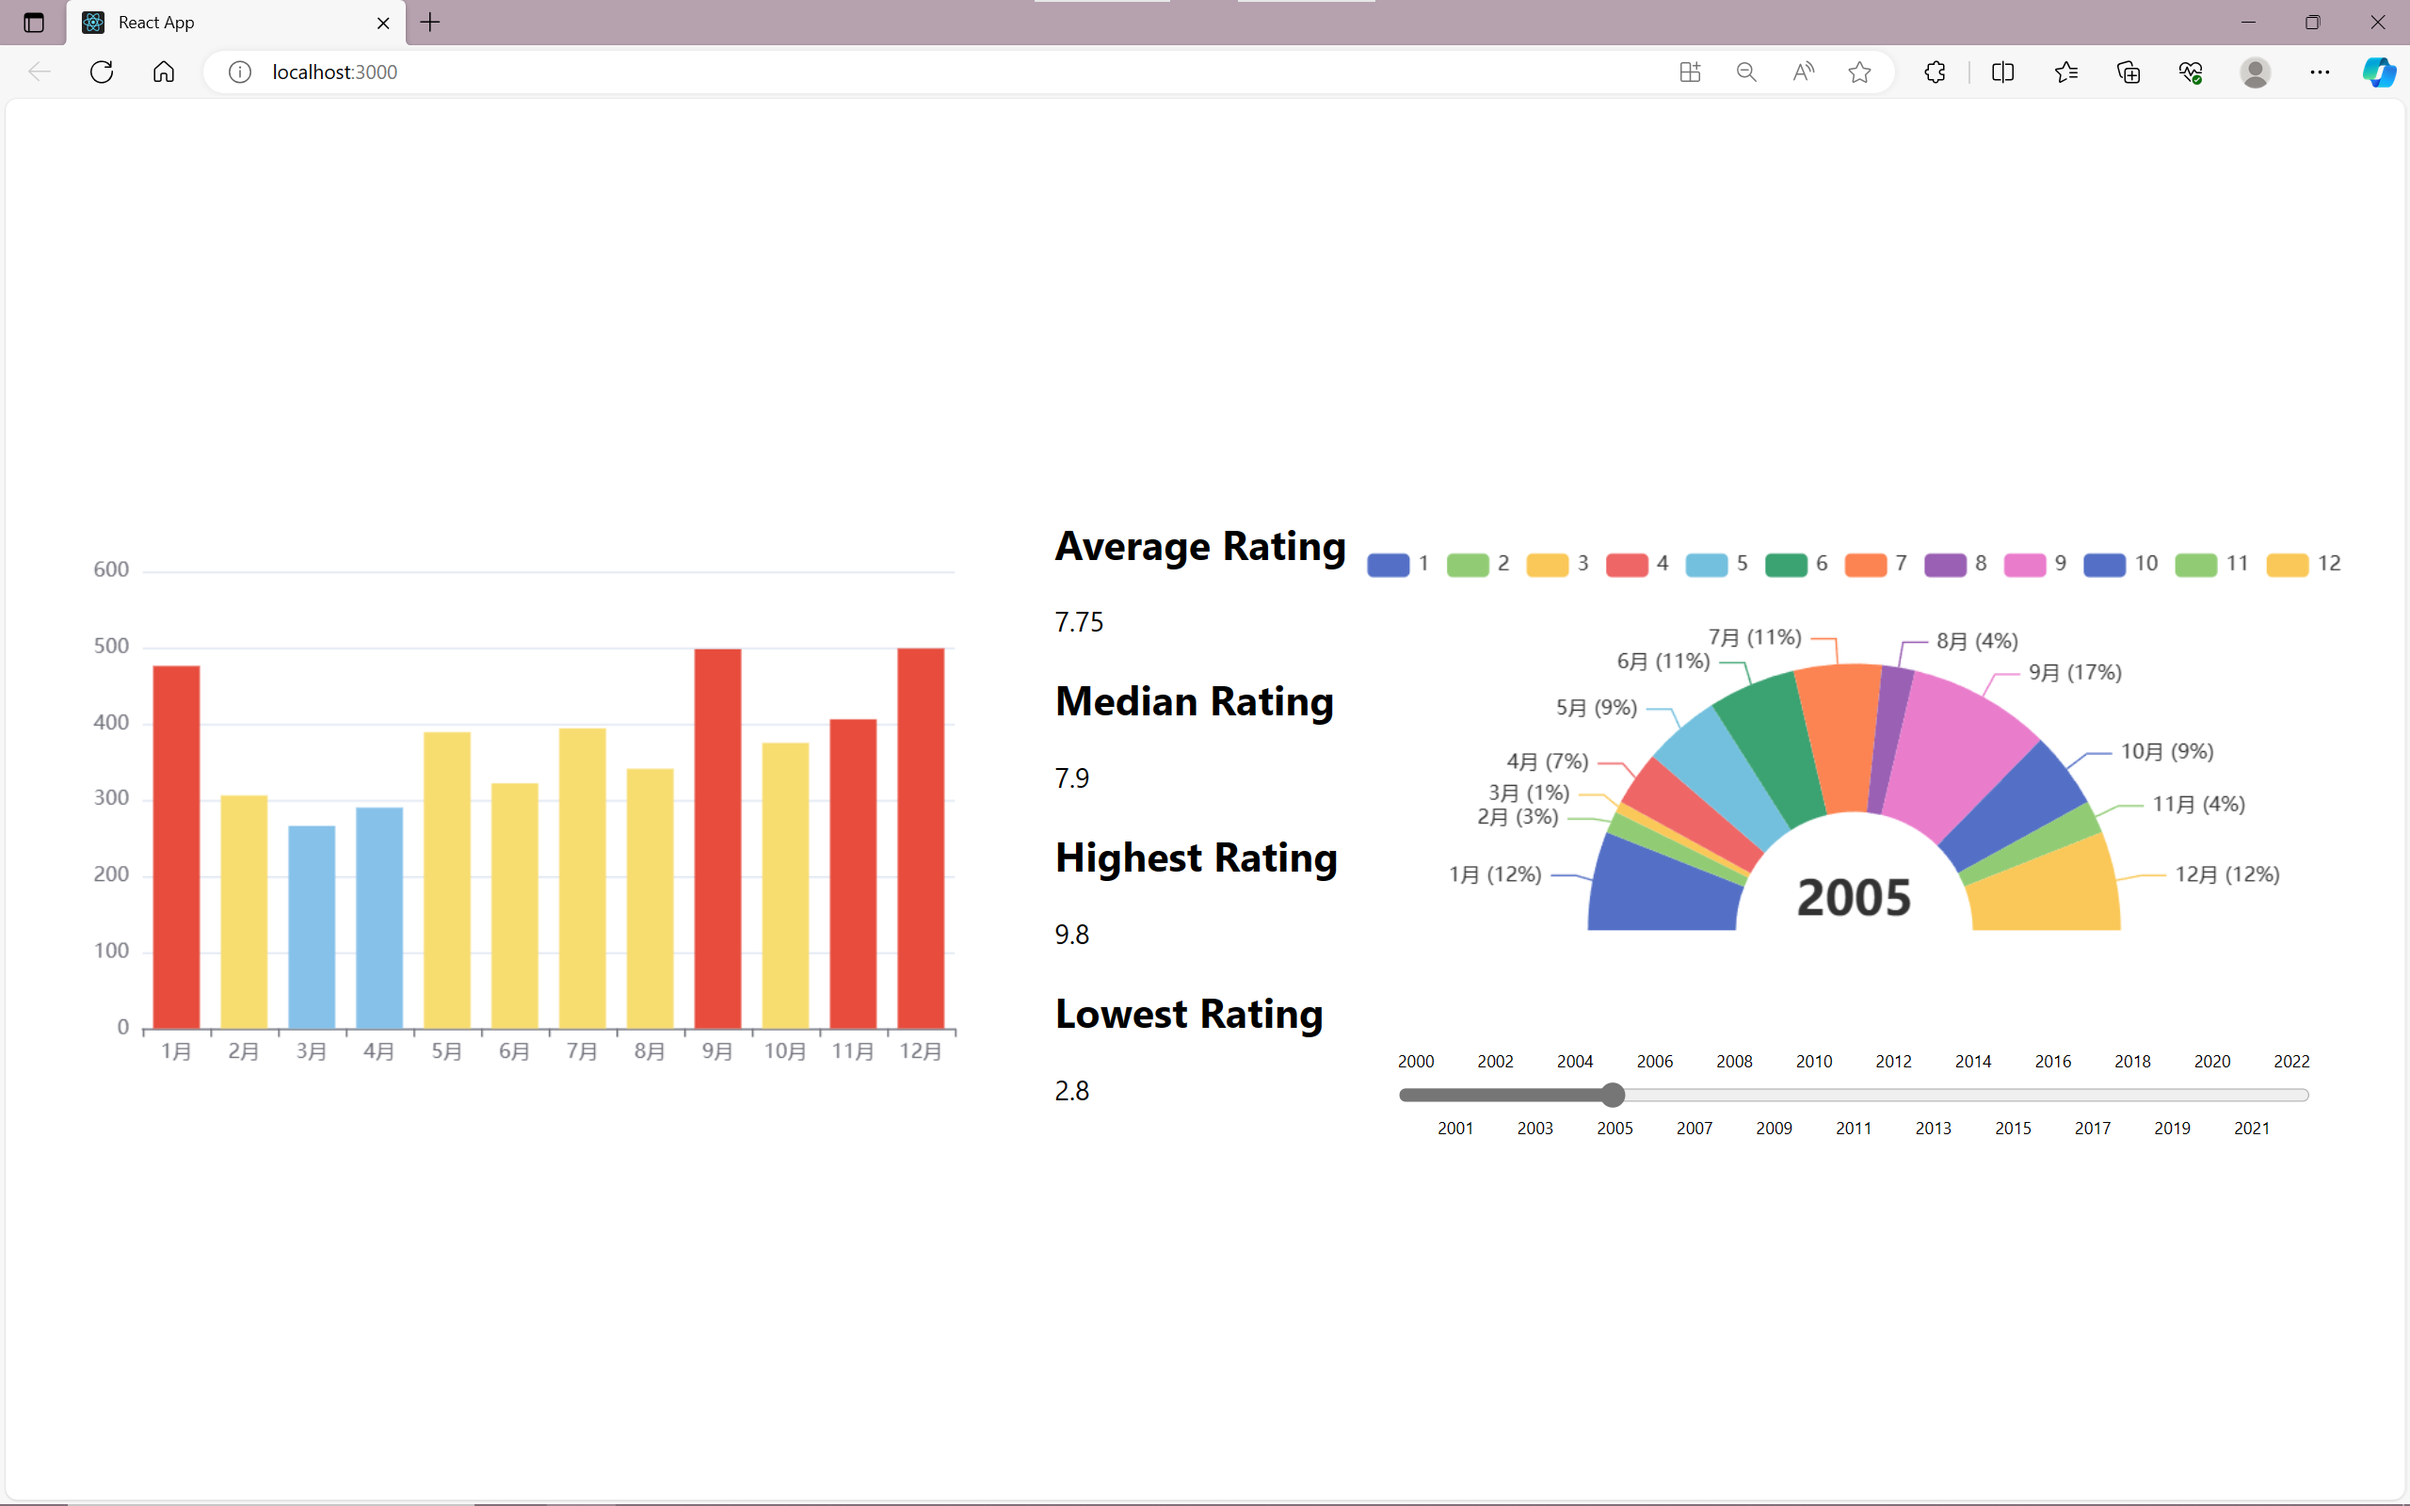
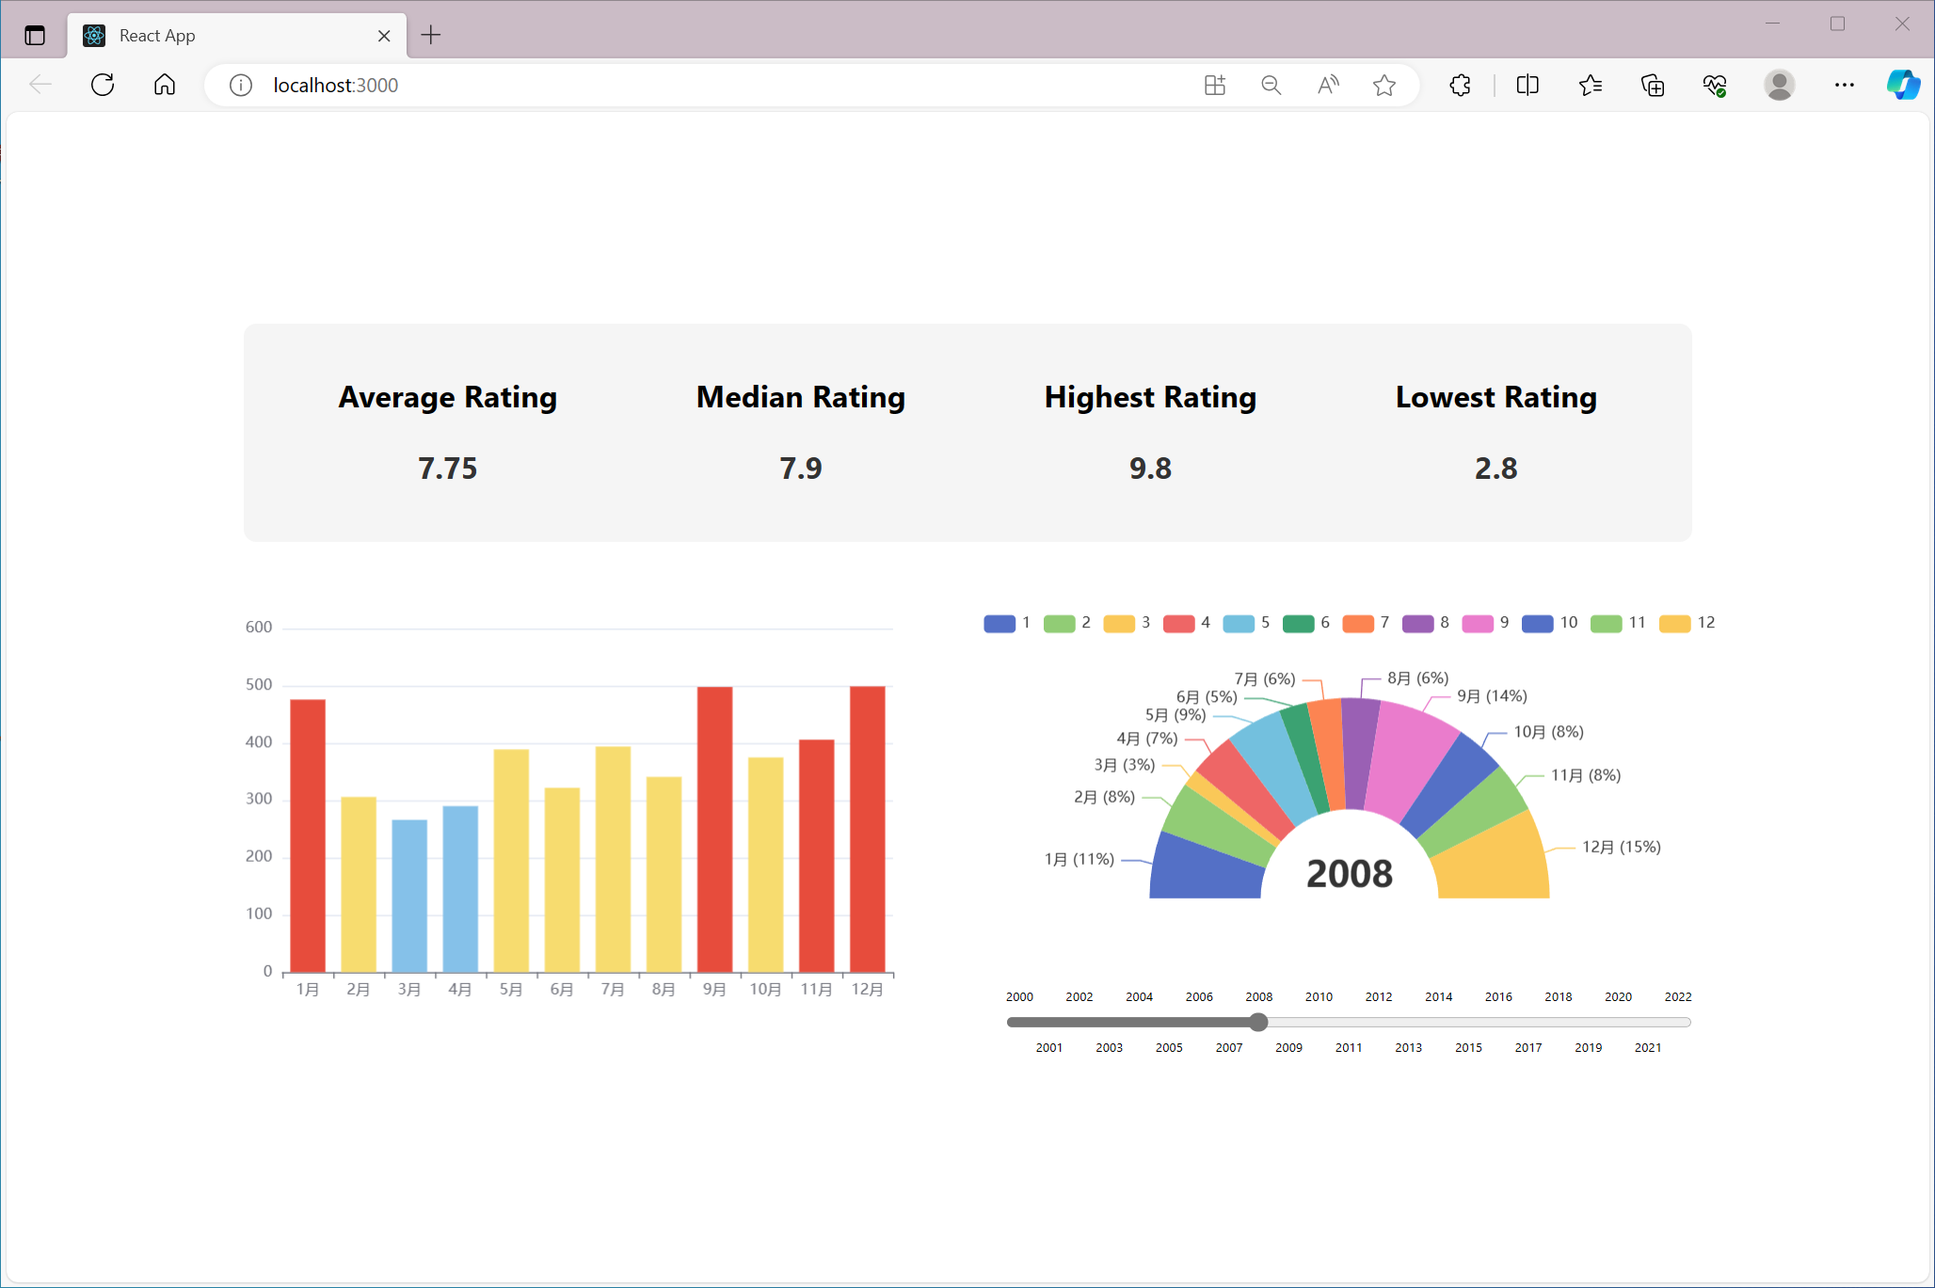
img

diff --git a/react-mongo/src/App.js b/react-mongo/src/App.js
@@ -6,8 +6,6 @@ import MovieStatistics from './component/MovieStatistics';
 import './App.css';
 
 
-
-
 function App() {
     // ...状态定义...
     const [selectedYear, setSelectedYear] = useState(2000);
@@ -58,9 +56,7 @@ function App() {
 
     return (
         <div className='App'>
-            <div className='a'>
-                <MonthlyMovieBarChart />
-            </div>
+
             <div>
                 <MovieStatistics
                     average={stats.average}
@@ -69,16 +65,19 @@ function App() {
                     lowest={stats.lowest}
                 />
             </div>
-            <div className='b'>
+
+            <div className='Box'>
+            <div className='Chart1'>
+                <MonthlyMovieBarChart />
+            </div>
+            <div className='Chart2'>
                 <MovieChart year={selectedYear} data={chartData} />
                 <YearSlider minYear={2000} maxYear={2022} onYearChange={setSelectedYear} />
             </div>
+            </div>
+
         </div>
     );
 }
 
 export default App;
-
-
-
-

diff --git a/react-mongo/src/App.css b/react-mongo/src/App.css
@@ -3,13 +3,20 @@
   justify-content: center;
   align-items: center;
   height: 100vh;
+  flex-direction: column;
+}
+
+.Box {
+  display: flex;
+  justify-content: center;
+  align-items: center;
   flex-direction: row;
 }
 
-.a {
+.Chart1 {
   width: 600px;
 }
 
-.b {
+.Chart2 {
   width: 600px;
 }

diff --git a/react-mongo/src/component/MovieStatistics.js b/react-mongo/src/component/MovieStatistics.js
@@ -1,4 +1,5 @@
 import React from 'react';
+import './MovieStatistics.css';
 
 const MovieStatistics = ({ average, median, highest, lowest }) => {
     return (

diff --git a/react-mongo/src/component/MovieStatistics.css b/react-mongo/src/component/MovieStatistics.css
@@ -5,6 +5,7 @@
   background-color: #f5f5f5;
   padding: 20px;
   border-radius: 10px;
+  width: 1100px;
 }
 
 .statistic {

diff --git a/springboot-mongo/src/main/java/NoSqlExperiment/config/WebConfig.java b/springboot-mongo/src/main/java/NoSqlExperiment/config/WebConfig.java
@@ -1,9 +1,9 @@
 package NoSqlExperiment.config;
 
 import org.springframework.context.annotation.Bean;
-        import org.springframework.context.annotation.Configuration;
-        import org.springframework.web.servlet.config.annotation.CorsRegistry;
-        import org.springframework.web.servlet.config.annotation.WebMvcConfigurer;
+import org.springframework.context.annotation.Configuration;
+import org.springframework.web.servlet.config.annotation.CorsRegistry;
+import org.springframework.web.servlet.config.annotation.WebMvcConfigurer;
 
 @Configuration
 public class WebConfig implements WebMvcConfigurer {

diff --git a/springboot-mongo/src/main/java/NoSqlExperiment/contrlloer/MovieController.java b/springboot-mongo/src/main/java/NoSqlExperiment/contrlloer/MovieController.java
@@ -11,6 +11,7 @@ import org.springframework.web.bind.annotation.RestController;
 import java.math.BigDecimal;
 import java.math.RoundingMode;
 import java.util.List;
+
 import org.bson.Document;
 
 @RestController
